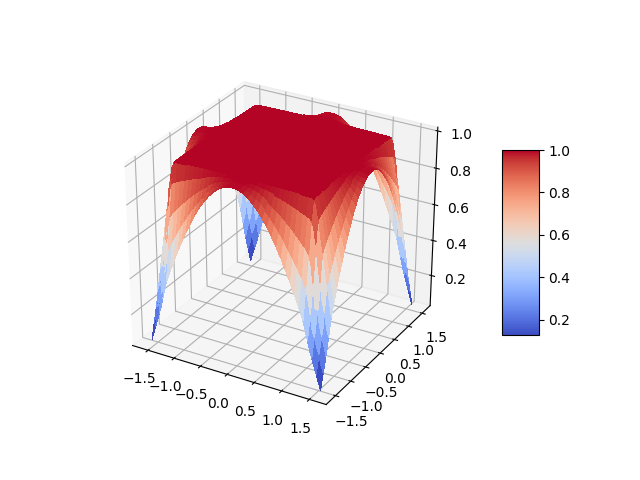
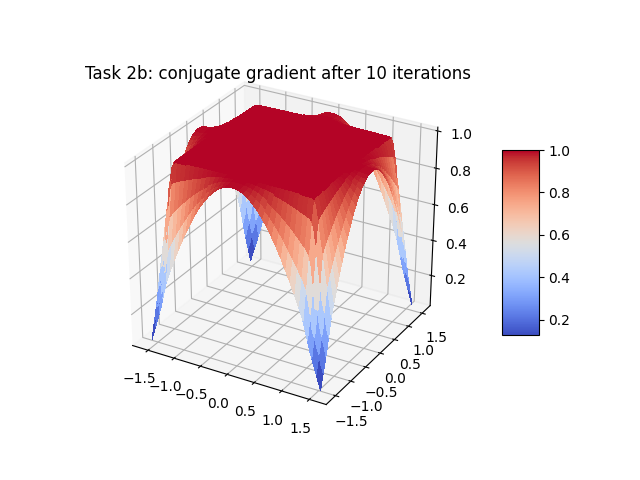
final update

Changed region(s): [[0.125, 0.125, 0.75, 0.1875]]

diff --git a/exercise4/conjugate-gradient2.py b/exercise4/conjugate-gradient2.py
@@ -31,7 +31,6 @@ def cg_method(b, x, epsilon):
     return x, x_10, x_50, x_100, iter
 
 
-
 def multA(x):
     res = np.empty_like(x)  # result vector
     width = int(np.sqrt(x.size))
@@ -50,16 +49,11 @@ def multA(x):
 
 
 def create_boundary(size):
-<<<<<<< HEAD
-    res = np.zeros(size)  #
-=======
     res = np.zeros(size)
->>>>>>> 5d1f8da48a76f55933bf352b02936bddfff1b661
     width = int(np.sqrt(size))
     allX = np.linspace(-np.pi / 2, np.pi / 2, width)
     side = np.cos(allX)
     for i in range(size):
-<<<<<<< HEAD
         if i < width:  # at left edge
             res[i] += side[i % width]
         if i >= (width - 1) * width:  # at right edge
@@ -70,29 +64,17 @@ def create_boundary(size):
             res[i] += side[(i + 1) // width - 1]
     return res
 
-=======
-        j = i % width
-        if i < width:  # at left edge
-            res[i] += side[j]
-        if i >= (width - 1) * width:  # at right edge
-            res[i] += side[j]
-        if i % width == 0:  # at bottom edge
-            res[i] += side[j]
-        if (i + 1) % width == 0:  # at top edge
-            res[i] += side[j]
-    return res
->>>>>>> 5d1f8da48a76f55933bf352b02936bddfff1b661
 
-def plot3D(phi, savename, nx=81, ny=81):
+def plot3D(phi, title, savename, nx=81, ny=81):
     allX = np.linspace(-np.pi / 2, np.pi / 2, nx)
     allY = np.linspace(-np.pi / 2, np.pi / 2, ny)
 
-<<<<<<< HEAD
     xx, yy = np.meshgrid(allX, allY)
 
     fig = plt.figure()
     ax = fig.gca(projection="3d")
 
+    plt.title(title)
     surf = ax.plot_surface(
         xx, yy, phi, cmap=cm.coolwarm, linewidth=0, antialiased=False
     )
@@ -114,20 +96,21 @@ cg_50 = cg_50.reshape(79, 79)
 cg_100 = cg_100.reshape(79, 79)
 
 print(iter)
-# 131
+# 131 iterations
 
-plot3D(cg_final, "img/conjugate", 79, 79)
-plot3D(cg_10, "img/conjugate_10", 79, 79)
-plot3D(cg_50, "img/conjugate_50", 79, 79)
-plot3D(cg_100, "img/conjugate_100", 79, 79)
-=======
-# print(multA(np.array([0, 1, 2, 3, 4, 5, 6, 7, 8])))
-
-x = np.zeros((79 ** 2))
-x.fill(1)
-b = create_boundary(79 ** 2)
-
-result = cg_method(b, x, 1e-5)
-
-plot3D(result, "conjugate", 79, 79)
->>>>>>> 5d1f8da48a76f55933bf352b02936bddfff1b661
+plot3D(
+    cg_final, "Task 2b: conjugate gradient final result", "img/conjugate_final", 79, 79
+)
+plot3D(
+    cg_10, "Task 2b: conjugate gradient after 10 iterations", "img/conjugate_10", 79, 79
+)
+plot3D(
+    cg_50, "Task 2b: conjugate gradient after 50 iterations", "img/conjugate_50", 79, 79
+)
+plot3D(
+    cg_100,
+    "Task 2b: conjugate gradient after 100 iterations",
+    "img/conjugate_100",
+    79,
+    79,
+)

diff --git a/exercise4/relaxation_methods.py b/exercise4/relaxation_methods.py
@@ -66,8 +66,7 @@ def sor(grid, threshold):
     rho_gs = rho_j ** 2
     iter = 0
     omega = 1
-    threshold_reached = False
-    while iter < 100:
+    while np.amax(new_grid - old_grid) > threshold or iter == 0:
         iter += 1
 
         old_grid = new_grid.copy()
@@ -94,11 +93,7 @@ def sor(grid, threshold):
         if iter == 100:
             sor_100 = new_grid.copy()
 
-        if np.amax(new_grid - old_grid) <= threshold and not threshold_reached:
-            threshold_reached = True
-            iter_till_threshold = iter
-
-    return new_grid, sor_100, iter_till_threshold
+    return new_grid, sor_100, iter
 
 
 def omega_update(omega, rho_GS):
@@ -131,7 +126,7 @@ def checkerboard(shape):
     return np.indices(shape).sum(axis=0) % 2
 
 
-def plot3D(phi, savename, nx=81, ny=81):
+def plot3D(phi, title, savename, nx=81, ny=81):
     allX = np.linspace(-np.pi / 2, np.pi / 2, nx)
     allY = np.linspace(-np.pi / 2, np.pi / 2, ny)
 
@@ -139,7 +134,7 @@ def plot3D(phi, savename, nx=81, ny=81):
 
     fig = plt.figure()
     ax = fig.gca(projection="3d")
-
+    plt.title(title)
     surf = ax.plot_surface(
         xx, yy, phi, cmap=cm.coolwarm, linewidth=0, antialiased=False
     )
@@ -156,7 +151,9 @@ eps = 1e-5
 grid = np.zeros((nx, ny))
 
 jacobi_final, jacobi_100, iter_jacobi = jacobi(grid, eps)
+grid = np.zeros((nx, ny))
 seidel_final, seidel_100, iter_seidel = gauss_seidel(grid, eps)
+grid = np.zeros((nx, ny))
 sor_final, sor_100, iter_sor = sor(grid, eps)
 
 print("Number of iterations:")
@@ -168,9 +165,9 @@ print(f"successive overrelaxation: {iter_sor}")
 # gauss-seidel: 450
 # successive overrelaxation: 59
 
-plot3D(jacobi_100, "img/jacobi_100")
-plot3D(jacobi_final, "img/jacobi_final")
-plot3D(seidel_100, "img/seidel_100")
-plot3D(seidel_final, "img/seidel_final")
-plot3D(sor_100, "img/sor_100")
-plot3D(sor_final, "img/sor_final")
+plot3D(jacobi_100, "Task1: jacobi after 100 iterations", "img/jacobi_100")
+plot3D(jacobi_final, "Task1: jacobi final result", "img/jacobi_final")
+plot3D(seidel_100, "Task1: gauss-seidel after 100 iterations", "img/seidel_100")
+plot3D(seidel_final, "Task1: gauss-seidel final result", "img/seidel_final")
+plot3D(sor_100, "Task1: successive overrelaxation after 100 iterations", "img/sor_100")
+plot3D(sor_final, "Task1: successive overrelaxation final result", "img/sor_final")

diff --git a/exercise4/conjugate-gradient.py b/exercise4/conjugate-gradient.py
@@ -30,24 +30,15 @@ def sd_method(A, b, x, epsilon):
         n = -A @ x + b
         lam = (n @ n) / (n @ (A @ n))  # rescale lambda
 
-<<<<<<< HEAD
-        x = x + l * n
-        grad = np.linalg.norm(n)
-
-        # if iter > 10:
-        #     break
-=======
         x = x + lam * n  # move towards minimum
         grad = np.linalg.norm(n)
 
->>>>>>> 5d1f8da48a76f55933bf352b02936bddfff1b661
     return x, iter
 
 
 A = np.loadtxt("CG_Matrix_10x10.dat")
 b = np.zeros(10)
 b.fill(1)
-<<<<<<< HEAD
 sd_final, iter_sd = sd_method(A, b, b, 1e-10)
 cg_final, iter_cg = cg_method(A, b, b, 1e-10)
 
@@ -58,7 +49,3 @@ print("\n")
 print("x[0], |x|")
 print(sd_final[0], np.linalg.norm(sd_final))
 print(cg_final[0], np.linalg.norm(cg_final))
-=======
-print(sd_method(A, b, b, 1e-10))
-print(cg_method(A, b, b, 1e-10))
->>>>>>> 5d1f8da48a76f55933bf352b02936bddfff1b661
